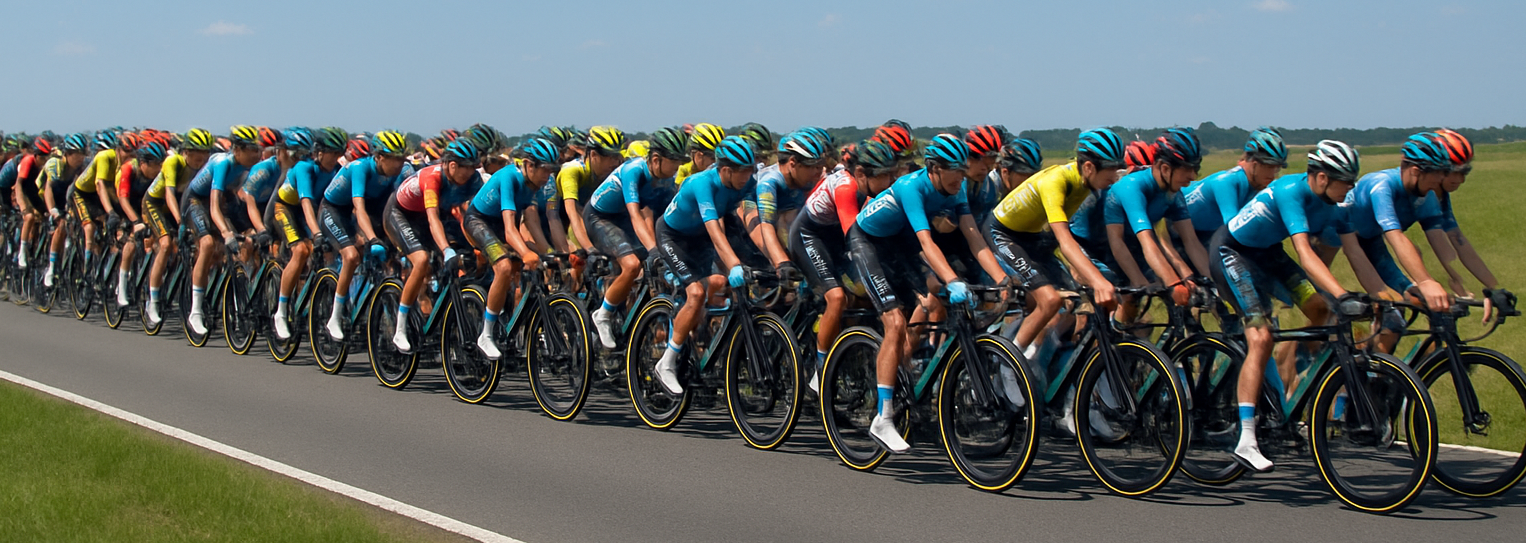
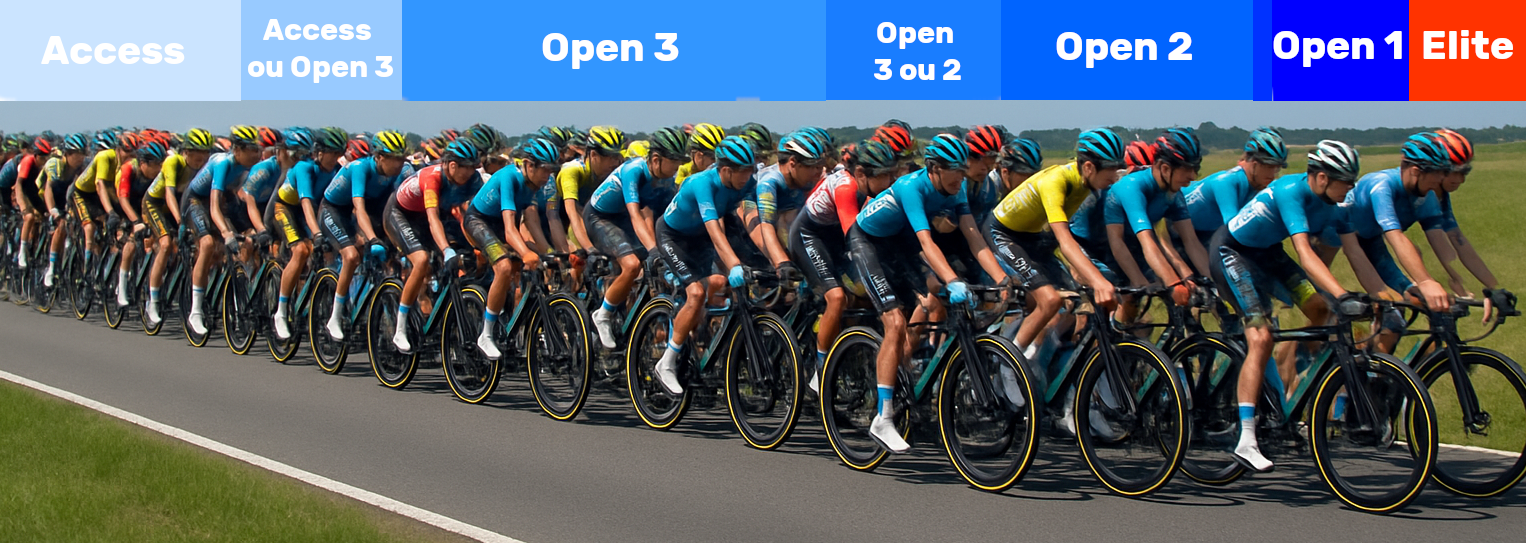
1.0.0: remplacement de la photo riders

Changed region(s): [[0.0, 0.0, 1.0, 0.2063]]

diff --git a/src/app/simulator/result-details/result-details.component.ts b/src/app/simulator/result-details/result-details.component.ts
@@ -45,19 +45,6 @@ export class ResultDetailsComponent {
     return `assets/icons/logo/${this.getLogo(this.result?.code)}`;
   }
 
-  getLibelle(){
-    let libelle = "";
-     this.gridService.getGridByCode(this.result?.code).subscribe(grid => {
-      if (grid) {        
-        libelle = grid.libelle + " - (" + grid.code + ")";
-      } else {
-       
-      }
-    });
-    return libelle;
-  }
-  //TODO 1.0.0 getLibelle cest pourri, a integrer directement dans le json
-
   getLogo(code: string): string { 
     let imgLogo: string = 'logo-default.svg';
     this.gridService.getGridByCode(code).subscribe(grid => {

diff --git a/src/app/simulator/result-add/result-add.component.ts b/src/app/simulator/result-add/result-add.component.ts
@@ -87,7 +87,7 @@ export class ResultAddComponent {
     // mise a jour de la liste des positions disponibles
     this.isPosDisabled = false;
     this.positions = Array.from({ length: grid.maxPos }, (_, i) => i + 1);
-    this.posHint = "Points attribués au TOP " + grid.maxPos + " pour une épreuve de type " + grid.libelle;
+    this.posHint = "Points attribués au TOP " + grid.maxPos + " pour une épreuve de type " + grid.longName;
     this.partants = Array.from({ length: 200 }, (_, i) => i + 1);
     this.prtsHint = "200 participants maximum";
   }

diff --git a/src/app/simulator/result-add/result-add.component.html b/src/app/simulator/result-add/result-add.component.html
@@ -21,7 +21,7 @@
       <mat-label>Type d'épreuve</mat-label>
       <mat-select formControlName="classCtrl" (selectionChange)="onGridSelectionChange($event.value)">
         <mat-option *ngFor="let grid of (grids$ | async)" [value]="grid">
-          {{ grid.libelle }} ({{grid.code}})
+          {{ grid.longName }}
         </mat-option>
       </mat-select>
       <mat-hint>{{ gridsCount$ | async }} types d'épreuve disponibles pour la Vue {{currentViewLabel}}</mat-hint>

diff --git a/src/app/simulator/result-details/result-details.component.html b/src/app/simulator/result-details/result-details.component.html
@@ -3,7 +3,7 @@
   <mat-card-header>
     <div mat-card-avatar class="logo-header-image"  [ngStyle]="{ 'background-image': 'url(' +  getAvatarUrl() + ')' }"></div>
     <mat-card-title>{{ result.place }}</mat-card-title>
-    <mat-card-subtitle>{{ getLibelle() }}</mat-card-subtitle>      
+    <mat-card-subtitle>{{ result.code }}</mat-card-subtitle>      
   </mat-card-header>    
   <mat-card-content>
   <div class="row">

diff --git a/src/app/models/grid.model.ts b/src/app/models/grid.model.ts
@@ -2,7 +2,8 @@ export interface Grid {
   code: string;
   priority: number;
   logo: string;
-  libelle: string;
+  shortName: string;
+  longName: string;
   vues: string[];
   type: string;
   cal: string;
